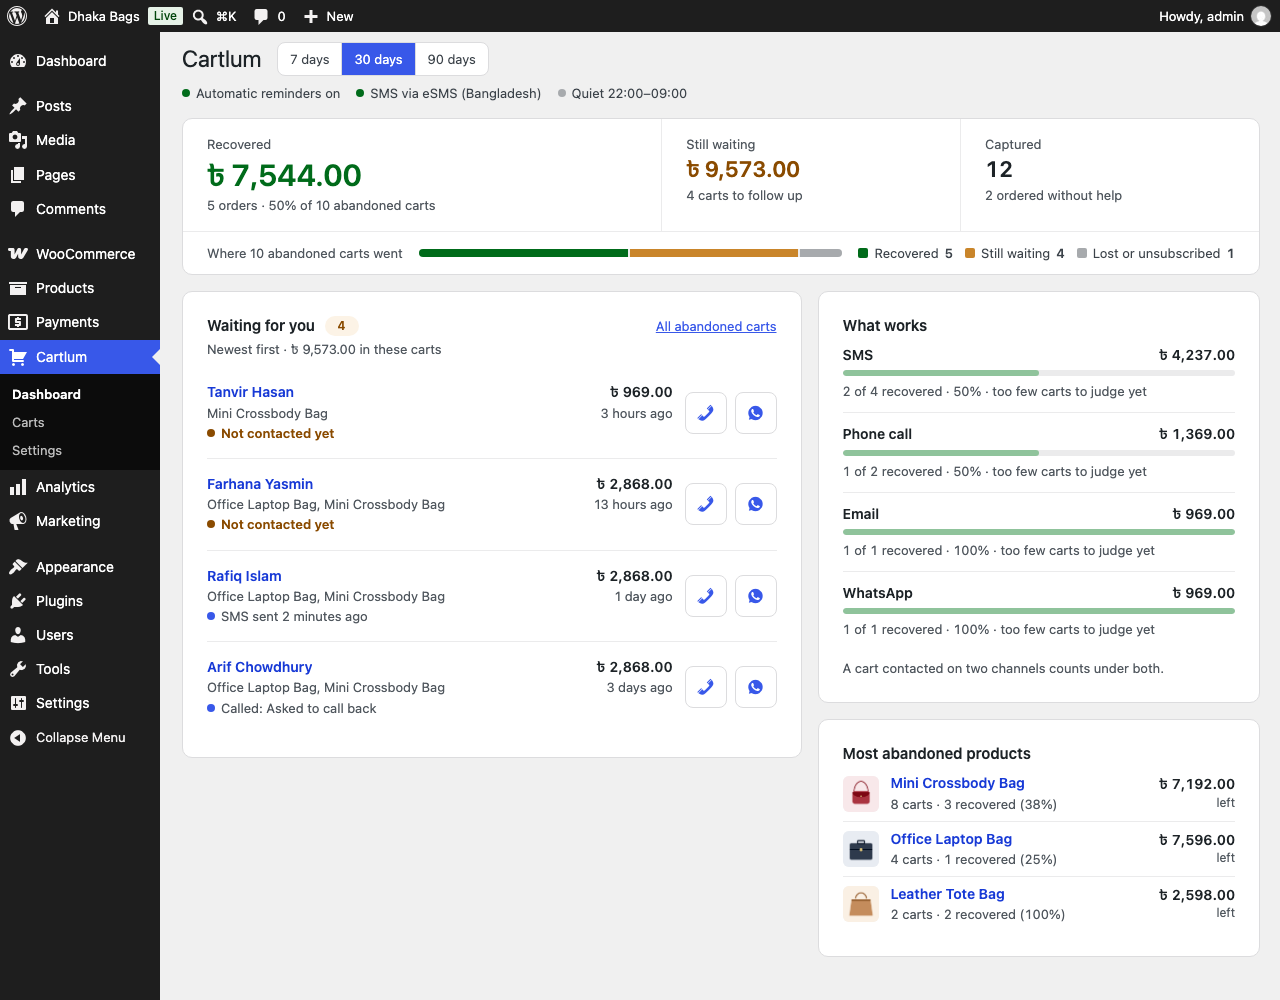
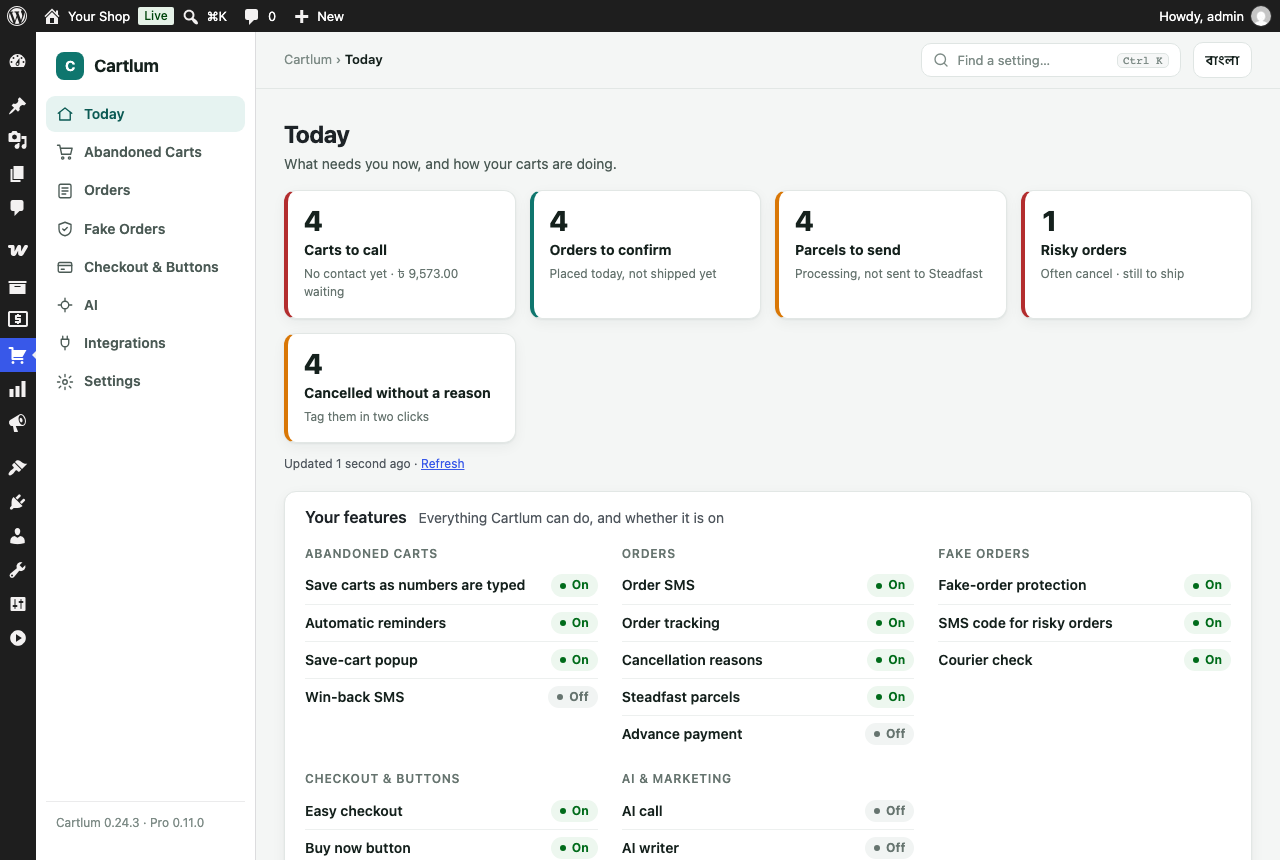
README: the new admin (Today, Integrations, search, settings, phone) with screenshots

diff --git a/README.md b/README.md
@@ -41,6 +41,26 @@ Requires WordPress 6.2+, WooCommerce 8.0+ and PHP 7.4+.
 
 Want more? See [Cartlum Pro](#cartlum-pro) below.
 
+## Built around your day
+
+Cartlum's admin is organised by a shop's daily work: **Today · Abandoned Carts · Orders · Fake Orders · Checkout & Buttons · AI · Integrations · Settings**.
+
+![Today: what needs you now, and every feature's status](.wordpress-org/screenshot-1.png)
+
+- **Today** opens with what needs you now: carts to call, orders to confirm, parcels to send, risky orders, cancellations without a reason. Below that, **Your features** shows every feature as On, Off or Needs setup.
+- **Integrations** keeps every outside service in one place (SMS, Steadfast, Facebook, FraudBD, WhatsApp, ElevenLabs, AI, webhooks), each with its status, keys and a test button.
+- **Find a setting** (Ctrl K / ⌘ K) on every screen jumps straight to any option.
+- **Simple settings:** switches and plain words, with technical options under **More options**. The **Save** bar saves without reloading, and Cartlum warns before you leave with unsaved changes.
+- **Set up Cartlum in 5 minutes:** a step-by-step first setup.
+- **বাংলা button:** Cartlum's screens in Bangla, for you only.
+- **Works on a phone:** the menu becomes a strip at the top.
+
+| Integrations | Find a setting |
+|---|---|
+| ![Integrations](.wordpress-org/screenshot-6.png) | ![Find a setting](docs/admin-search.png) |
+| **Settings with switches** | **On a phone** |
+| ![Settings](docs/admin-settings.png) | ![Phone](docs/admin-phone.png) |
+
 ## Cartlum Pro
 
 Cartlum Pro is a paid add-on. It installs next to the free plugin and adds:
@@ -71,9 +91,9 @@ Each Pro feature connects with the store's own accounts (SMS gateway, ElevenLabs
 
 ## Screenshots
 
-| Dashboard | A cart |
+| A cart | Integrations |
 |---|---|
-| ![Dashboard](.wordpress-org/screenshot-1.png) | ![Cart](.wordpress-org/screenshot-2.png) |
+| ![Cart](.wordpress-org/screenshot-2.png) | ![Integrations](.wordpress-org/screenshot-6.png) |
 | **Phone-first checkout** | **Reminder email** |
 | ![Checkout](.wordpress-org/screenshot-3.png) | ![Email](.wordpress-org/screenshot-4.png) |
 
